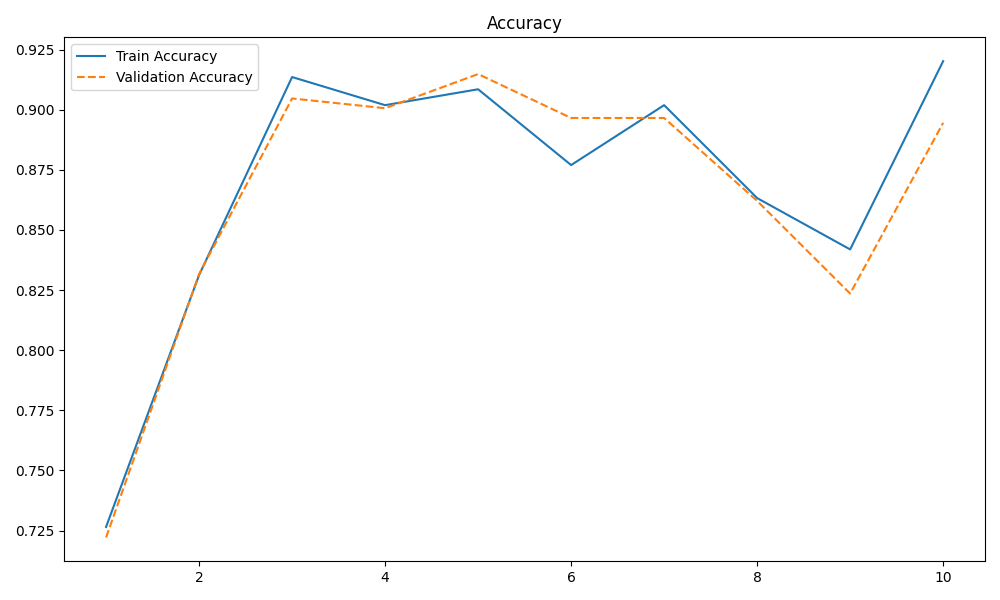
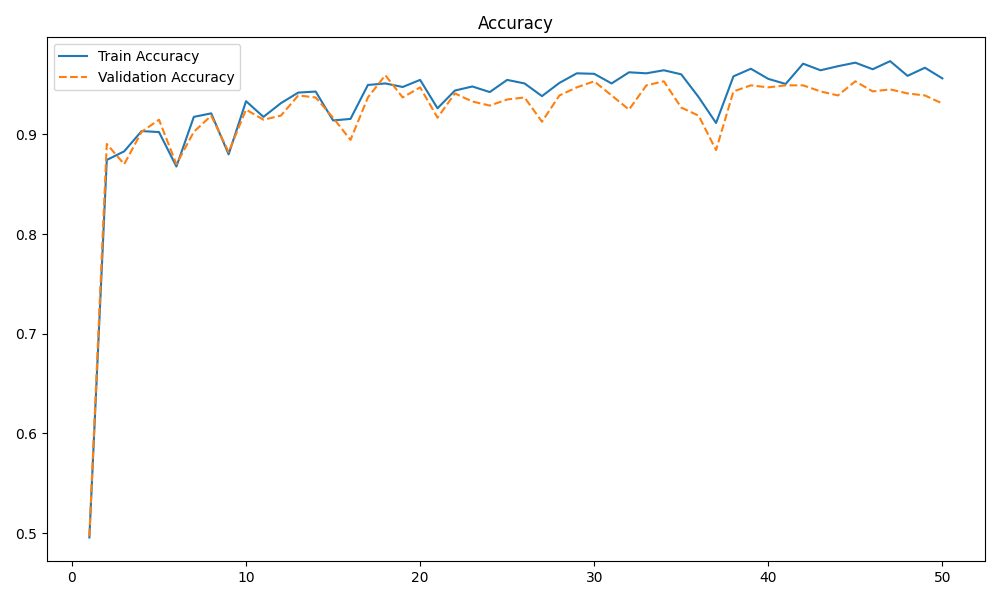
Change epochs

diff --git a/fine_tune/finetune.py b/fine_tune/finetune.py
@@ -14,7 +14,7 @@ import torchvision.models as models
 from model.custom_model import Model
 
 class TrainModelClassifier:
-    def __init__(self, medical_type, model_name, mean_and_std, epochs=30):
+    def __init__(self, medical_type, model_name, mean_and_std, epochs=50):
         """
         Initializes the Model with a specific medical type and computational device.
         """
@@ -52,7 +52,7 @@ class TrainModelClassifier:
             self.early_stopping_patience = 10
         else:
             self.optimizer = optim.AdamW(self.model.parameters(), lr=1e-4,weight_decay = 1e-2)
-            self.early_stopping_patience = 10
+            self.early_stopping_patience = 30
         self.epochs = epochs
         self.loss = nn.BCEWithLogitsLoss()
         self.metric_history  = {
